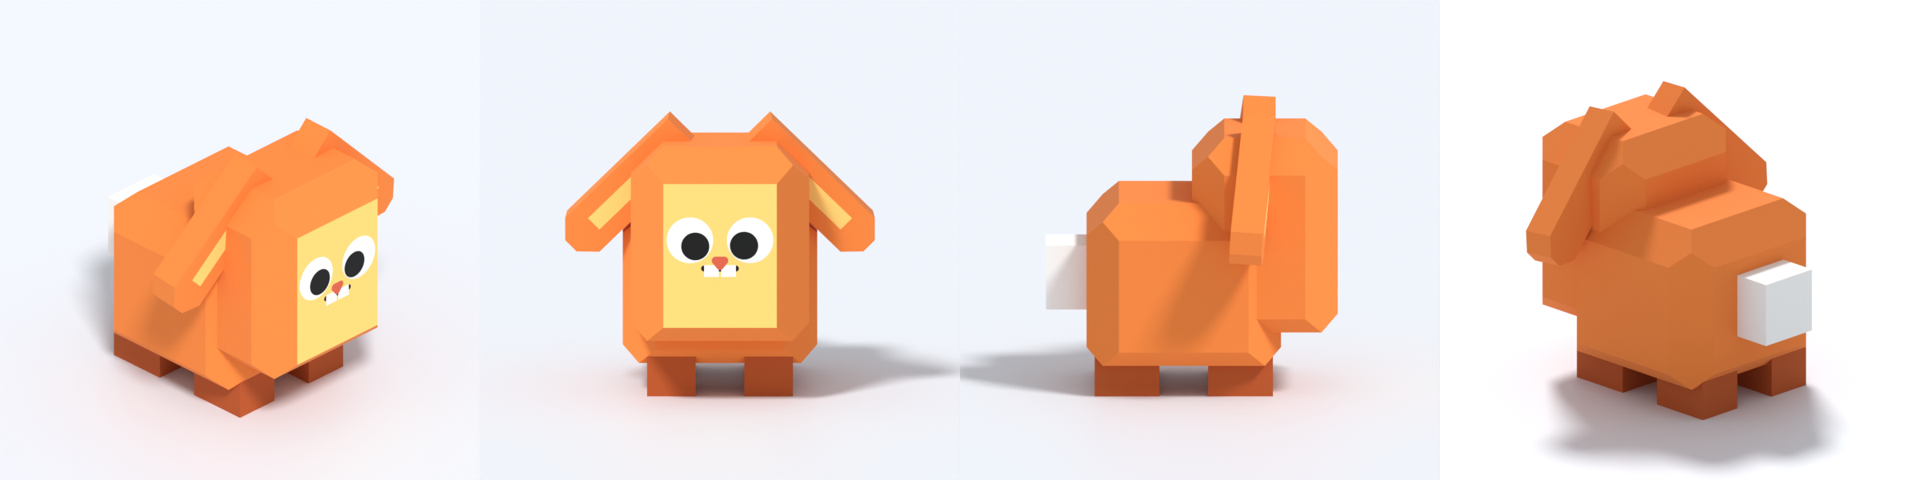
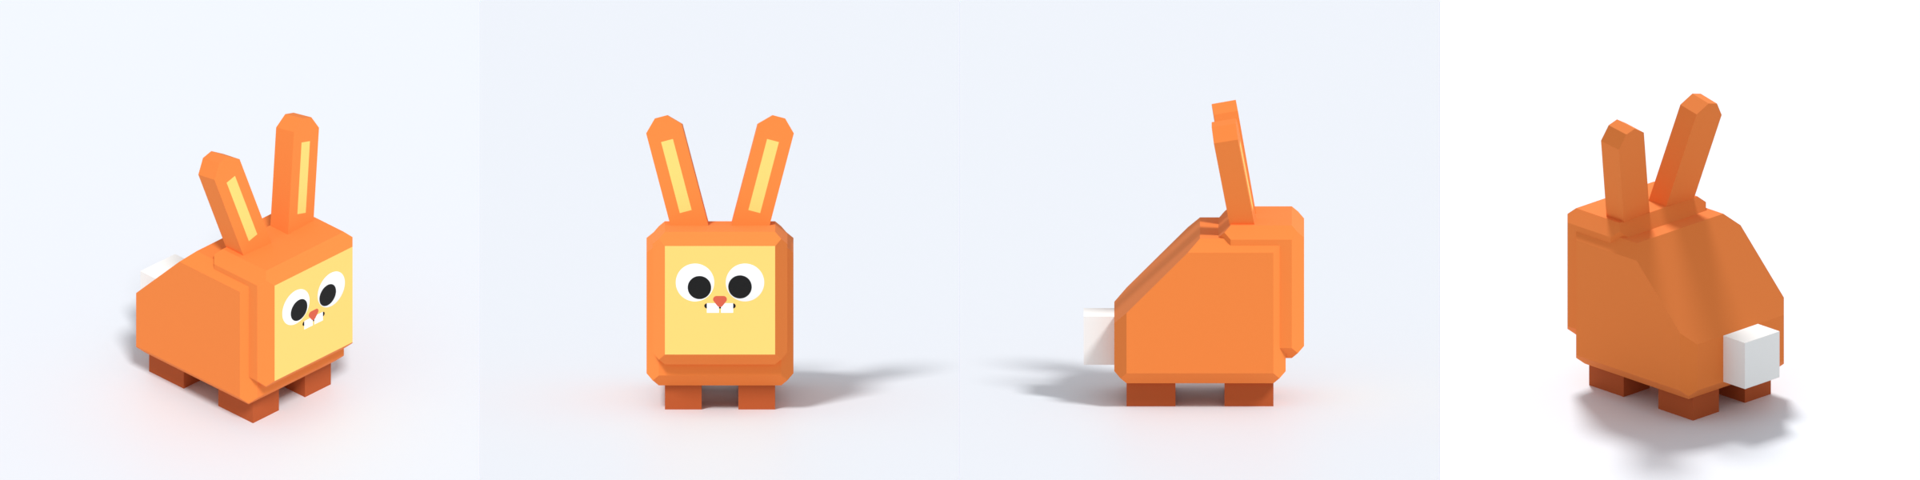
Rework loplong: a cube with a big rear bevel, a head slab and upright ears
Claude-Session: https://claude.ai/code/session_01RRjPcssmw86k8yzoijijLA

Changed region(s): [[0.2812, 0.1875, 0.7188, 0.875], [0.7812, 0.1562, 0.9688, 1.0], [0.0312, 0.2188, 0.2188, 0.875]]

diff --git a/tools/blender/build_bunny.py b/tools/blender/build_bunny.py
@@ -12,8 +12,8 @@ tall ears with butter insides, a white tail and four dark feet.
 - toy:     a box with short bevels only (the Taxi's lesson, R7a), chunky upright ears.
 - lop:     the classic body with ears that flop down its sides.
 - sitting: a separate head on a low body, so the head can nod and turn; ears swept back.
-- loplong: between lop and sitting: a long body and a separate, slightly taller head at its front,
-           with lop ears.
+- loplong: the reference's profile on a cube: a big bevel down the back, a separate head slab at the
+           front a voxel taller than the body, and upright ears.
 
 The script follows the bake_shade.py contract: parts are authored in voxels under an empty called
 `root`, the root part is `Body`, there is a shadow-catching `ground`, and it ends in the standard
@@ -325,27 +325,31 @@ elif VARIANT == "toy":
     HEIGHT = 22
 
 elif VARIANT == "loplong":
-    # The lop's long body cut in two: a 10-tall body and a 12-tall head overlapping its front, so the
-    # head stands proud of the back and can nod and turn. The head is 11 wide to the body's 12 (R8).
-    box = (-6, 6, 2, 12, -7, 5)
+    # The reference's profile on a cube: a tall front and a back sloping away through one big 45 deg
+    # bevel (a 7 x 7 wedge, R7b) along the top rear edge; every other edge bevelled by one voxel. The
+    # face is a separate head slab at the front, a voxel taller and narrower than the body (R8), so it
+    # can nod and turn; the ears ride on it, upright.
+    box = (-6, 6, 2, 14, -7, 7)
     body = Part("Body")
     body.box(*box, COAT)
-    round_box(body, box, top=2, side=2, bottom=1)
+    round_box(body, box, top=1, side=1, bottom=1, front_back=False)
+    bevel_edge(body, box, (0, 1, -1), 7)                                         # the sloping back
+    bevel_edge(body, box, (0, -1, -1), 1); bevel_edge(body, box, (0, -1, 1), 1)
     body.build()
-    hbox = (-5.5, 5.5, 4, 16, -0.5, 8.5)
+    hbox = (-5.5, 5.5, 4, 15, 1.5, 8.5)
     head = Part("Head")
     head.box(*hbox, COAT)
-    round_box(head, hbox, top=2, side=2, bottom=1)
-    head.paint(lambda x, y, z: z == 7.5 and -3.5 <= x < 3.5 and 5 <= y < 14, FACE)
-    head_ob = head.build(pivot=(0, 10, 2))                                       # neck, inside the body
-    face_uvs(head_ob, 8.5, 10.5, 10)
-    for sx in (1, -1):                                                           # lop ears, riding on the head
-        e = ear("Ear" + ("R" if sx > 0 else "L"), sx, sx * 3.5, 15, 2.5, 3, 2, 10, 2, pitch=5, splay=135)
+    round_box(head, hbox, top=1, side=1, bottom=1)
+    head.paint(lambda x, y, z: z == 7.5 and -4.5 <= x < 4.5 and 5 <= y < 14, FACE)
+    head_ob = head.build(pivot=(0, 10, 3))                                       # neck, inside the body
+    face_uvs(head_ob, 8.5, 11, 11)
+    for sx in (1, -1):                                                           # upright ears on the head
+        e = ear("Ear" + ("R" if sx > 0 else "L"), sx, sx * 2.5, 15, 2.5, 3, 2, 11, 2, pitch=10, splay=15)
         e.parent = head_ob
         e.location = Vector(e.location) - Vector(head_ob.location)
-    tail(7, -7)
-    feet((-3, 3), (-4.5, 2.5), 3, 4, 3, 1, 2)
-    HEIGHT = 18
+    tail(5, -7)
+    feet((-3, 3), (-4, 4), 3, 4, 3, 1, 2)
+    HEIGHT = 26
 
 else:  # sitting
     # A low body and a separate head that can nod: the classic proportions split at the neck.
